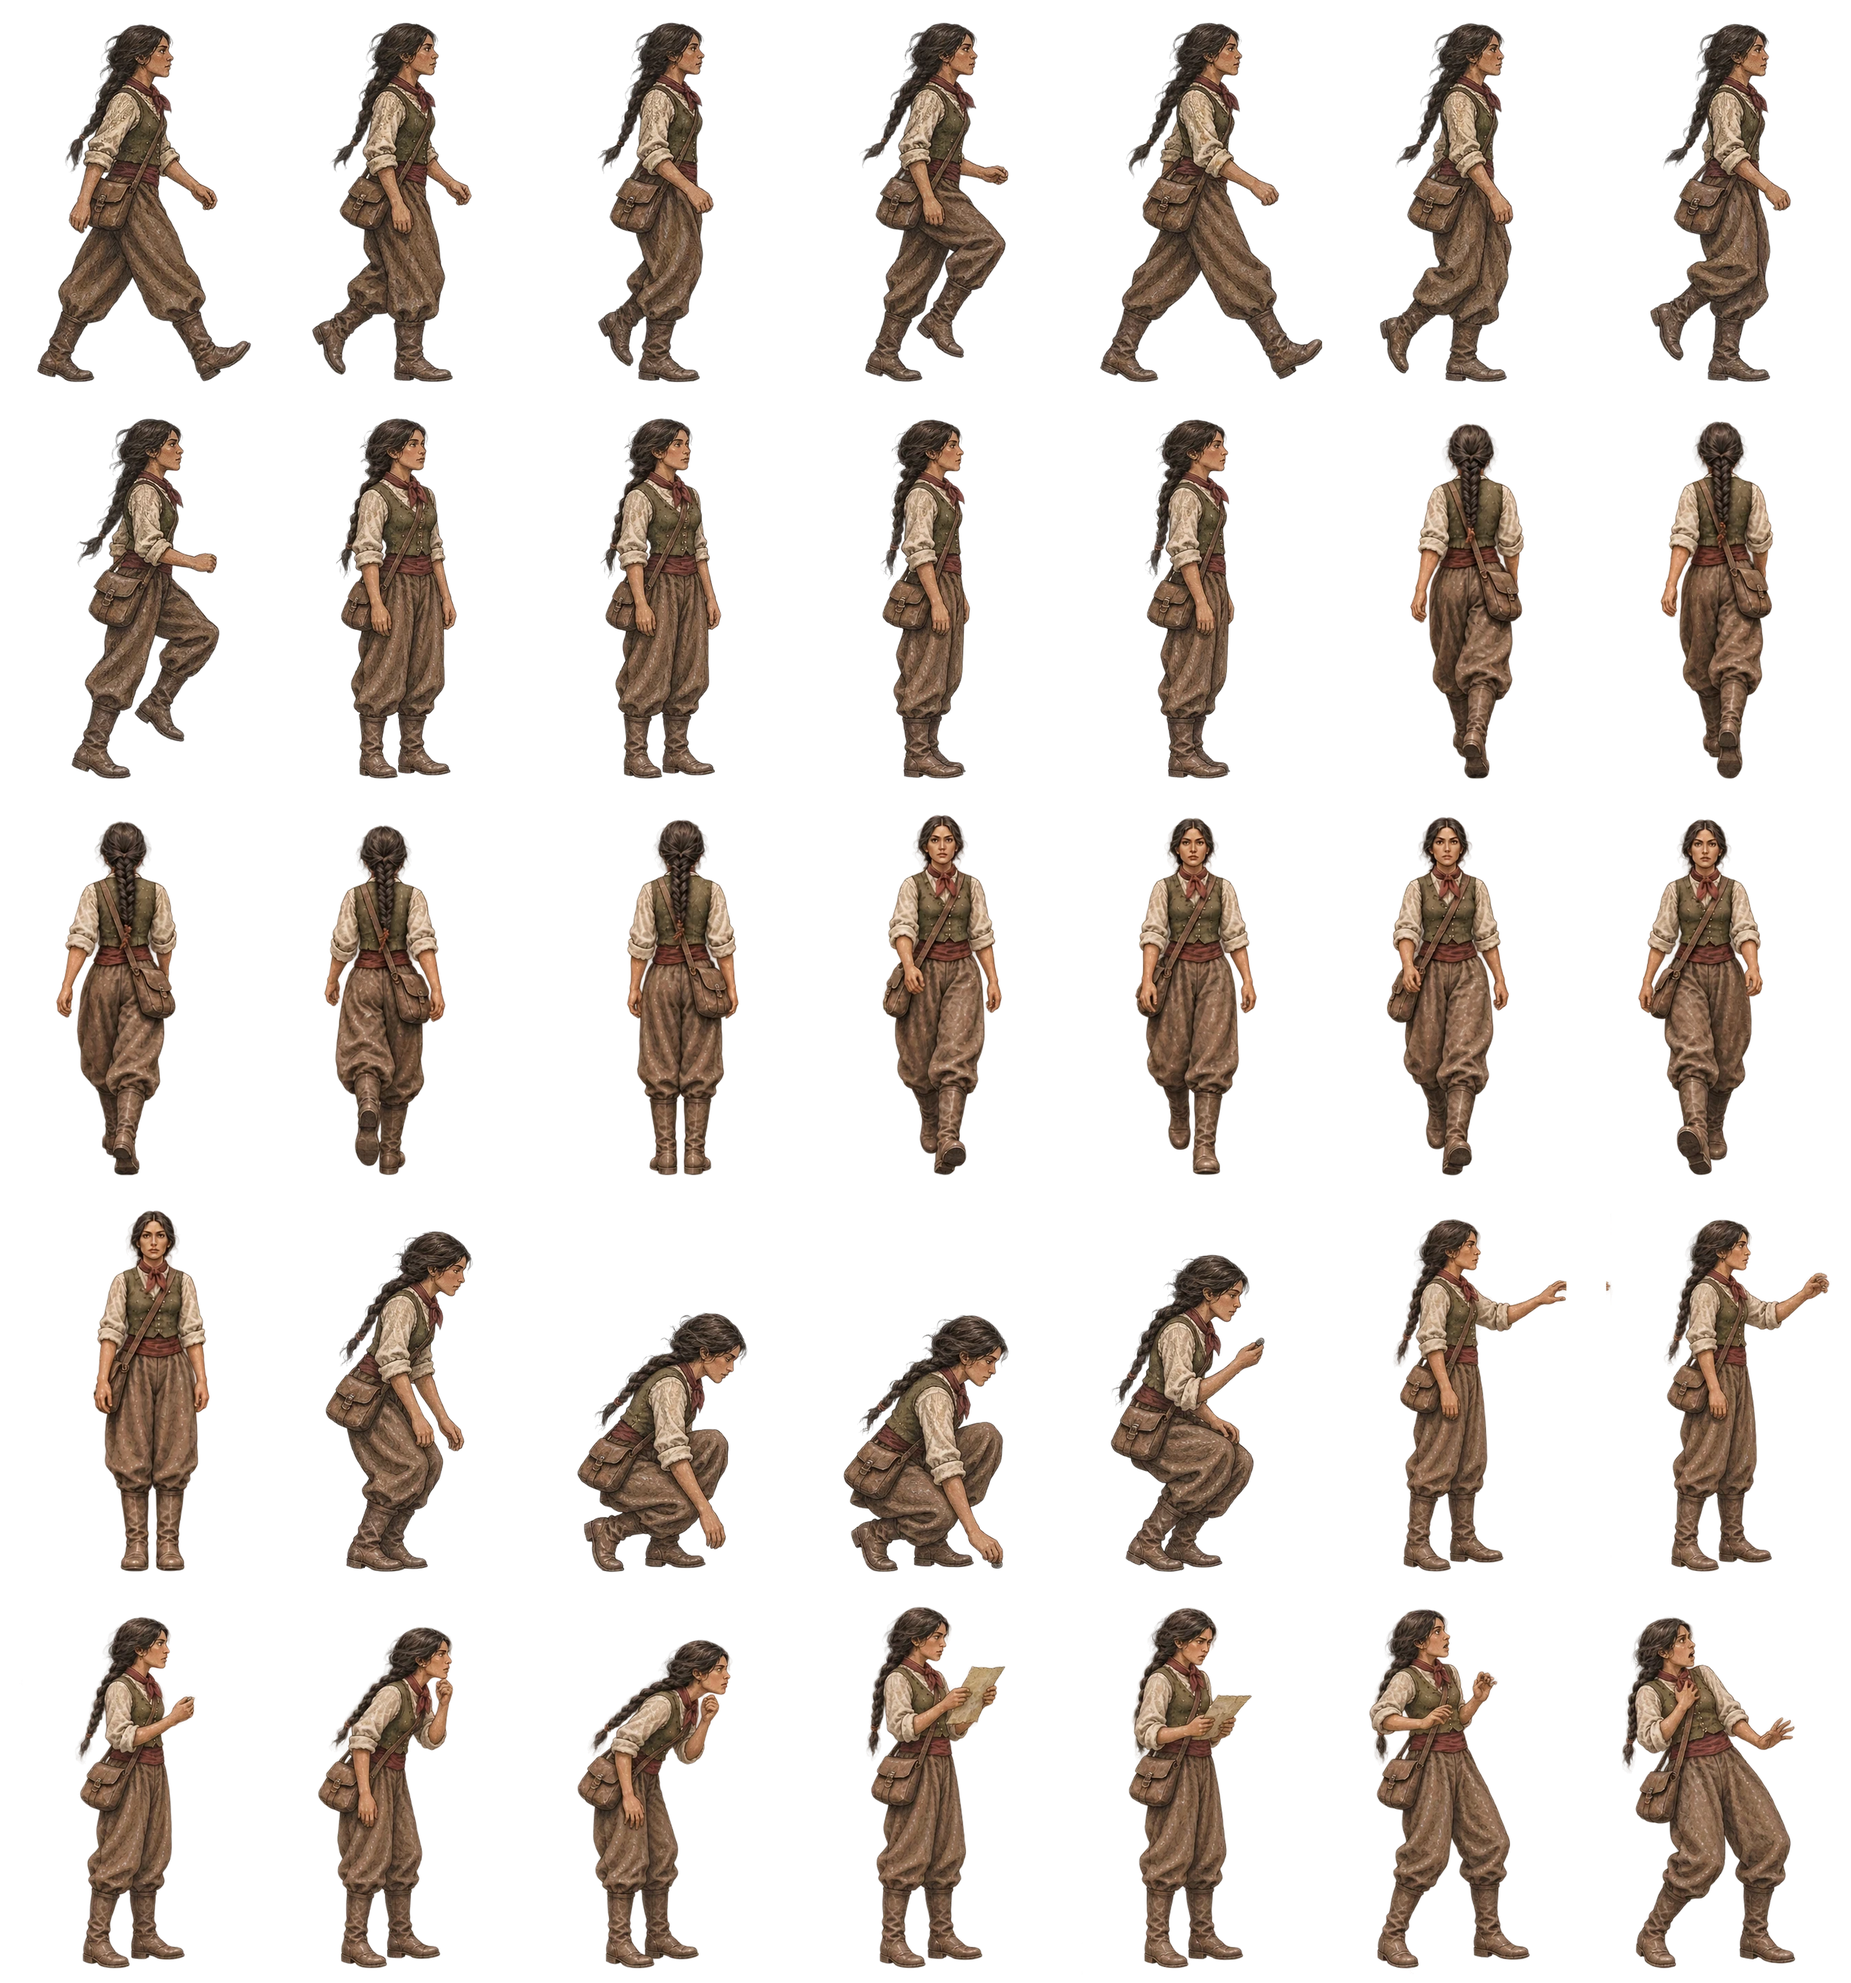
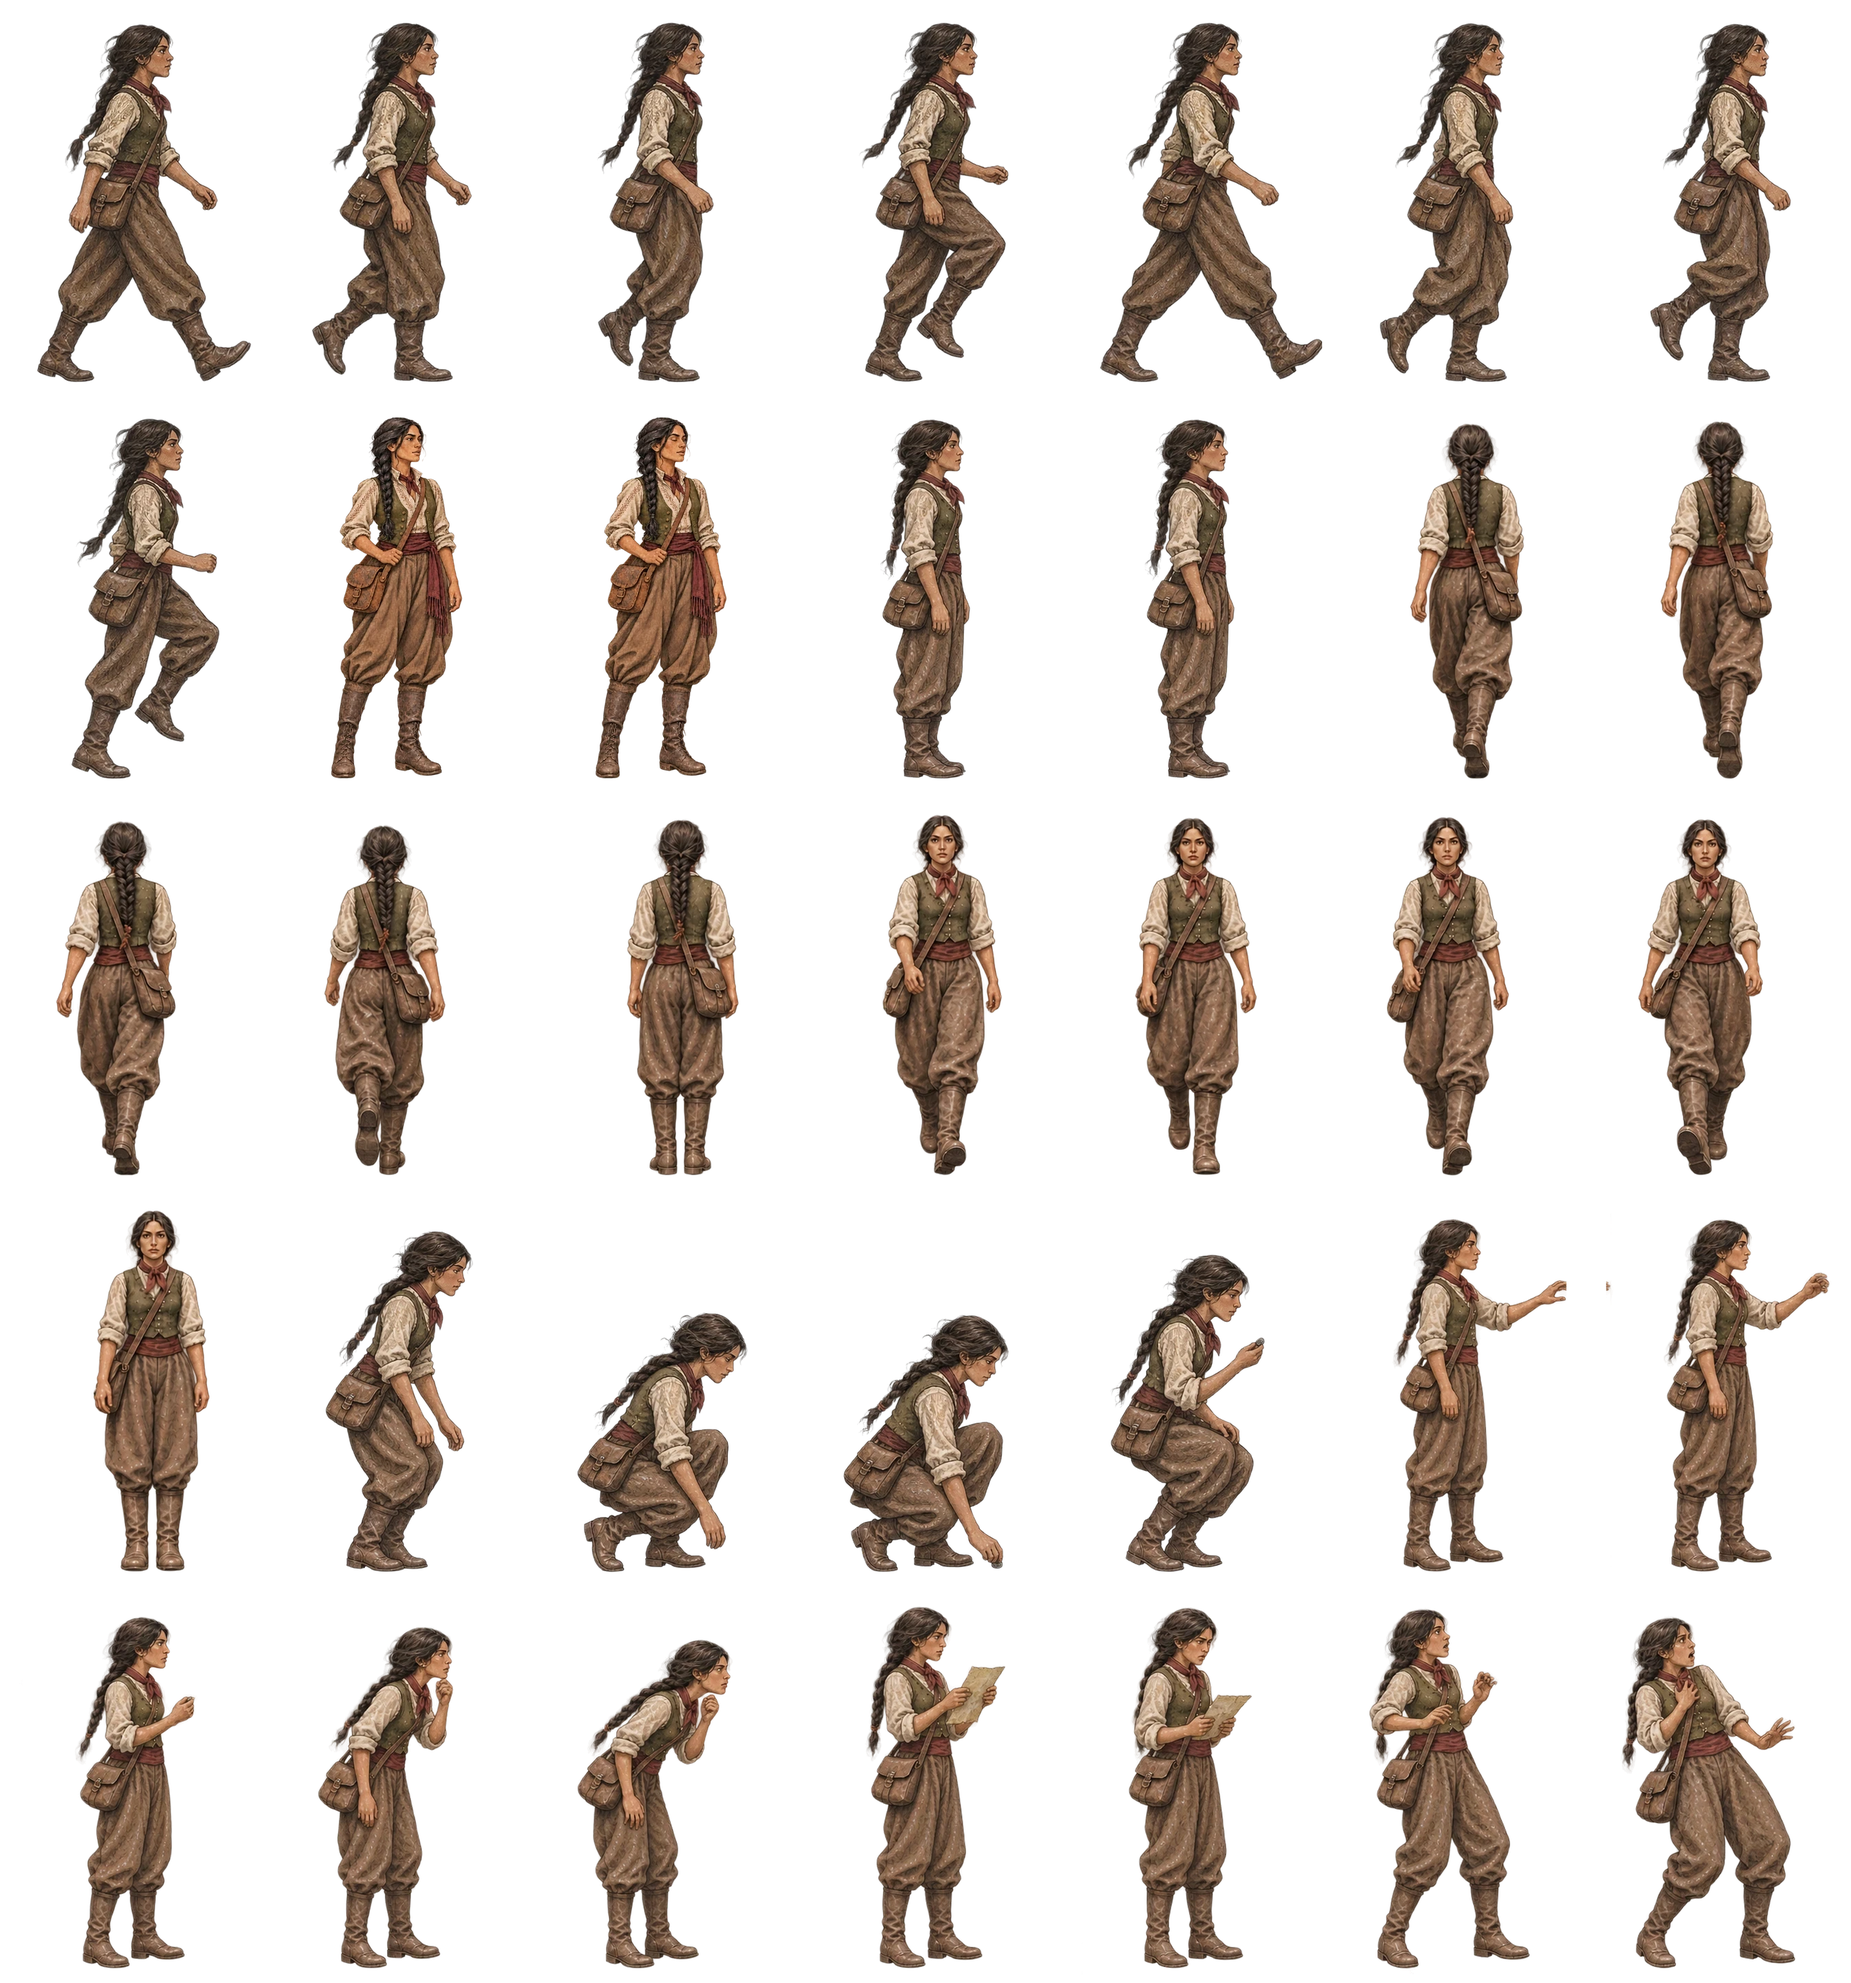
Arte nuevo: boca natural de Elena (retrato y quieta), Anselmo sin tortícolis y con cuadro de habla; personajes mueven la boca al hablar; reintentos al publicar en Pages
Claude-Session: https://claude.ai/code/session_01M12J5Dq2ffQCMYsL54s8rZ

Changed region(s): [[0.3125, 0.1875, 0.4062, 0.4062], [0.1562, 0.2188, 0.25, 0.4062]]

diff --git a/src/scenes/WorldScene.ts b/src/scenes/WorldScene.ts
@@ -103,8 +103,10 @@ export class WorldScene extends Phaser.Scene {
   private npcAnims(): void {
     if (!this.textures.exists('npcs-p')) return;
     for (const [k, [row]] of Object.entries(WorldScene.NPC_ROW)) {
-      const a = row * 2, b = a + 1;
+      const a = row * 3, b = a + 1, c = a + 2;
       this.anims.create({ key: `${k}-p`, frames: [...Array(16).fill(a), b].map((f) => ({ key: 'npcs-p', frame: f })), frameRate: 6, repeat: -1, delay: Math.random() * 1500 });
+      // hablando: la boca se abre y se cierra, con algún parpadeo
+      this.anims.create({ key: `${k}-talk-p`, frames: [a, c, c, a, c, a, a, c, b, c].map((f) => ({ key: 'npcs-p', frame: f })), frameRate: 7, repeat: -1 });
     }
   }
 
@@ -113,7 +115,7 @@ export class WorldScene extends Phaser.Scene {
     const row = WorldScene.NPC_ROW[key];
     if (row && this.anims.exists(`${key}-p`)) {
       const want = face === 'left' ? -1 : face === 'right' ? 1 : row[1];
-      const sp = this.add.sprite(x, y, 'npcs-p', row[0] * 2).setOrigin(0.5, ELENA_FOOT).setScale((this.roomScale(y) * 300 * 0.86) / ELENA_FIG_H).setFlipX(want !== row[1]);
+      const sp = this.add.sprite(x, y, 'npcs-p', row[0] * 3).setOrigin(0.5, ELENA_FOOT).setScale((this.roomScale(y) * 300 * 0.86) / ELENA_FIG_H).setFlipX(want !== row[1]);
       sp.play({ key: `${key}-p`, startFrame: Math.floor(Math.random() * 12) });
       return sp;
     }
@@ -719,6 +721,15 @@ export class WorldScene extends Phaser.Scene {
     this.tweens.add({ targets: sp, angle: { from: -0.5, to: 0.6 }, duration: 3800 + Math.random() * 1500, yoyo: true, repeat: -1, ease: 'Sine.inOut', delay: Math.random() * 2000 });
   }
 
+  /** Mientras un personaje dice su línea mueve la boca y acompaña con el cuerpo; al terminar vuelve al reposo. */
+  private talking(who: string, on: boolean): void {
+    if (who === 'elena') return;
+    const sp = this.npcs.find((n) => n.getData('who') === who && n.texture.key === 'npcs-p');
+    if (!sp) return;
+    if (on) { this.nod(who); if (this.anims.exists(`${who}-talk-p`)) sp.play(`${who}-talk-p`); }
+    else if (this.anims.exists(`${who}-p`)) sp.play(`${who}-p`);
+  }
+
   /** Quien habla acompaña con el cuerpo: un leve gesto de cabeza y hombros mientras dice su línea. */
   private nod(who: string): void {
     if (this.opts.reduceMotion) return;
@@ -867,7 +878,7 @@ export class WorldScene extends Phaser.Scene {
   private async runEffect(e: Effect): Promise<void> {
     const ui = this.ui;
     switch (e.t) {
-      case 'say': if (e.who && e.who !== 'elena') this.nod(e.who); await ui.say(e.who ?? 'elena', e.text, this.opts); break;
+      case 'say': { const w = e.who ?? 'elena'; this.talking(w, true); await ui.say(w, e.text, this.opts); this.talking(w, false); break; }
       case 'dialog': await this.runDialog(e.id); break;
       case 'give': await this.handover(e.item, true); applyEffect(this.s, e); ui.renderInventory(this.s); ui.toast(`${L('Guardé en el estuche', 'Put in my satchel')}: ${t(ITEMS[e.item]?.name ?? e.item)}`); break;
       case 'take': await this.handover(e.item, false); applyEffect(this.s, e); ui.renderInventory(this.s); break;
@@ -911,7 +922,7 @@ export class WorldScene extends Phaser.Scene {
     while (nodeId && guard++ < 60) {
       const node: typeof d.nodes[string] = d.nodes[nodeId];
       if (!node) break;
-      for (const [who, text] of node.lines) { if (who !== 'elena') this.nod(who); await this.ui.say(who, text, this.opts); }
+      for (const [who, text] of node.lines) { this.talking(who, true); await this.ui.say(who, text, this.opts); this.talking(who, false); }
       if (node.effects) await this.runEffects(node.effects);
       if (node.options) {
         const opts = node.options.filter((o) => (!o.when || o.when(this.s)) && (!o.onceFlag || !this.s.flags[o.onceFlag]));

diff --git a/tools/npc-atlas.py b/tools/npc-atlas.py
@@ -1,5 +1,6 @@
 # Hoja pintada de los personajes secundarios (arte/personajes/<id>-quieta-1/2.png, 512×768, pies en y≈740).
 # Uso: python3 tools/npc-atlas.py /mnt/project-files/sans-souci/arte/personajes
+# Cuadros por fila: quieta-1, quieta-2 (parpadeo), habla (si no hay, se repite quieta-1).
 # Salida: public/art/npcs.webp (cuadros de 384×576) y public/art/retratos/<id>.webp.
 import sys, os
 import numpy as np
@@ -7,11 +8,15 @@ from PIL import Image
 src = sys.argv[1]
 IDS = ['anselmo', 'rosa', 'mercedes', 'isabel']
 FW, FH = 384, 576
-sheet = Image.new('RGBA', (FW * 2, FH * len(IDS)), (0, 0, 0, 0))
+sheet = Image.new('RGBA', (FW * 3, FH * len(IDS)), (0, 0, 0, 0))
 for r, n in enumerate(IDS):
-    for c in range(2):
+    for c in range(3):
         f = os.path.join(src, '%s-sentada-%d.png' % (n, c + 1))
         if not os.path.exists(f): f = os.path.join(src, '%s-quieta-%d.png' % (n, c + 1))
+        if c == 2:
+            f = os.path.join(src, '%s-habla.png' % n)
+            if not os.path.exists(f): f = os.path.join(src, '%s-sentada-1.png' % n)
+            if not os.path.exists(f): f = os.path.join(src, '%s-quieta-1.png' % n)
         im = Image.open(f).convert('RGBA')
         a = np.array(im)
         a[:, :, 3] = np.where(a[:, :, 3] < 10, 0, a[:, :, 3])

diff --git a/tools/blinkfix.py b/tools/blinkfix.py
@@ -1,7 +1,7 @@
 # Parpadeo sin saltos: el cuadro de ojos cerrados se arma sobre el de reposo y sólo cambia la cara.
 # Uso (después de elena-atlas.py / npc-atlas.py):
 #   python3 tools/blinkfix.py public/art/elena.webp 7 "[(8,9),(10,11)]" public/art/elena.webp
-#   python3 tools/blinkfix.py public/art/npcs.webp 2 "[(0,1),(2,3),(4,5),(6,7)]" public/art/npcs.webp
+#   python3 tools/blinkfix.py public/art/npcs.webp 3 "[(0,1),(3,4),(6,7),(9,10)]" public/art/npcs.webp
 import numpy as np, sys
 from PIL import Image
 from scipy.ndimage import gaussian_filter, label, binary_dilation
